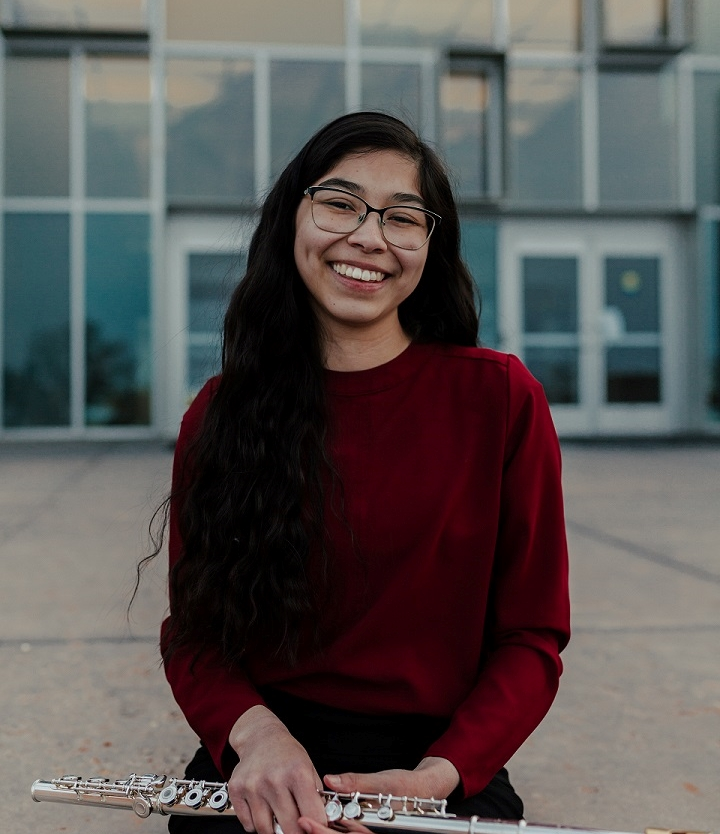
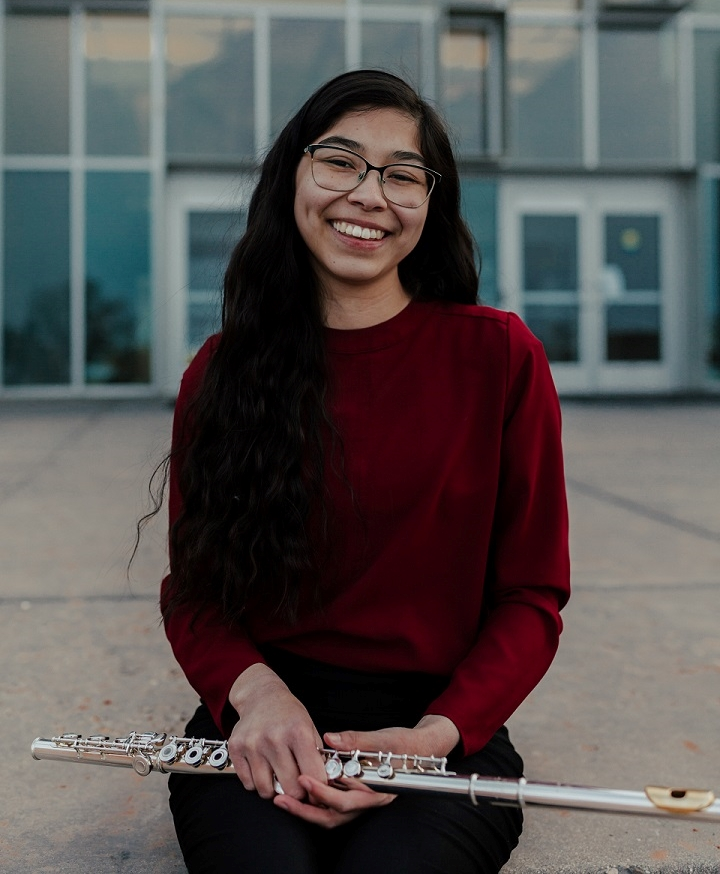
change size of about image

diff --git a/styles/about.css b/styles/about.css
@@ -43,7 +43,7 @@
 
 .image-wrapper img{
     width: 500px;
-    height: 500px;
+    height: 600px;
     object-fit: cover;
     border-radius: 10px;
 }
